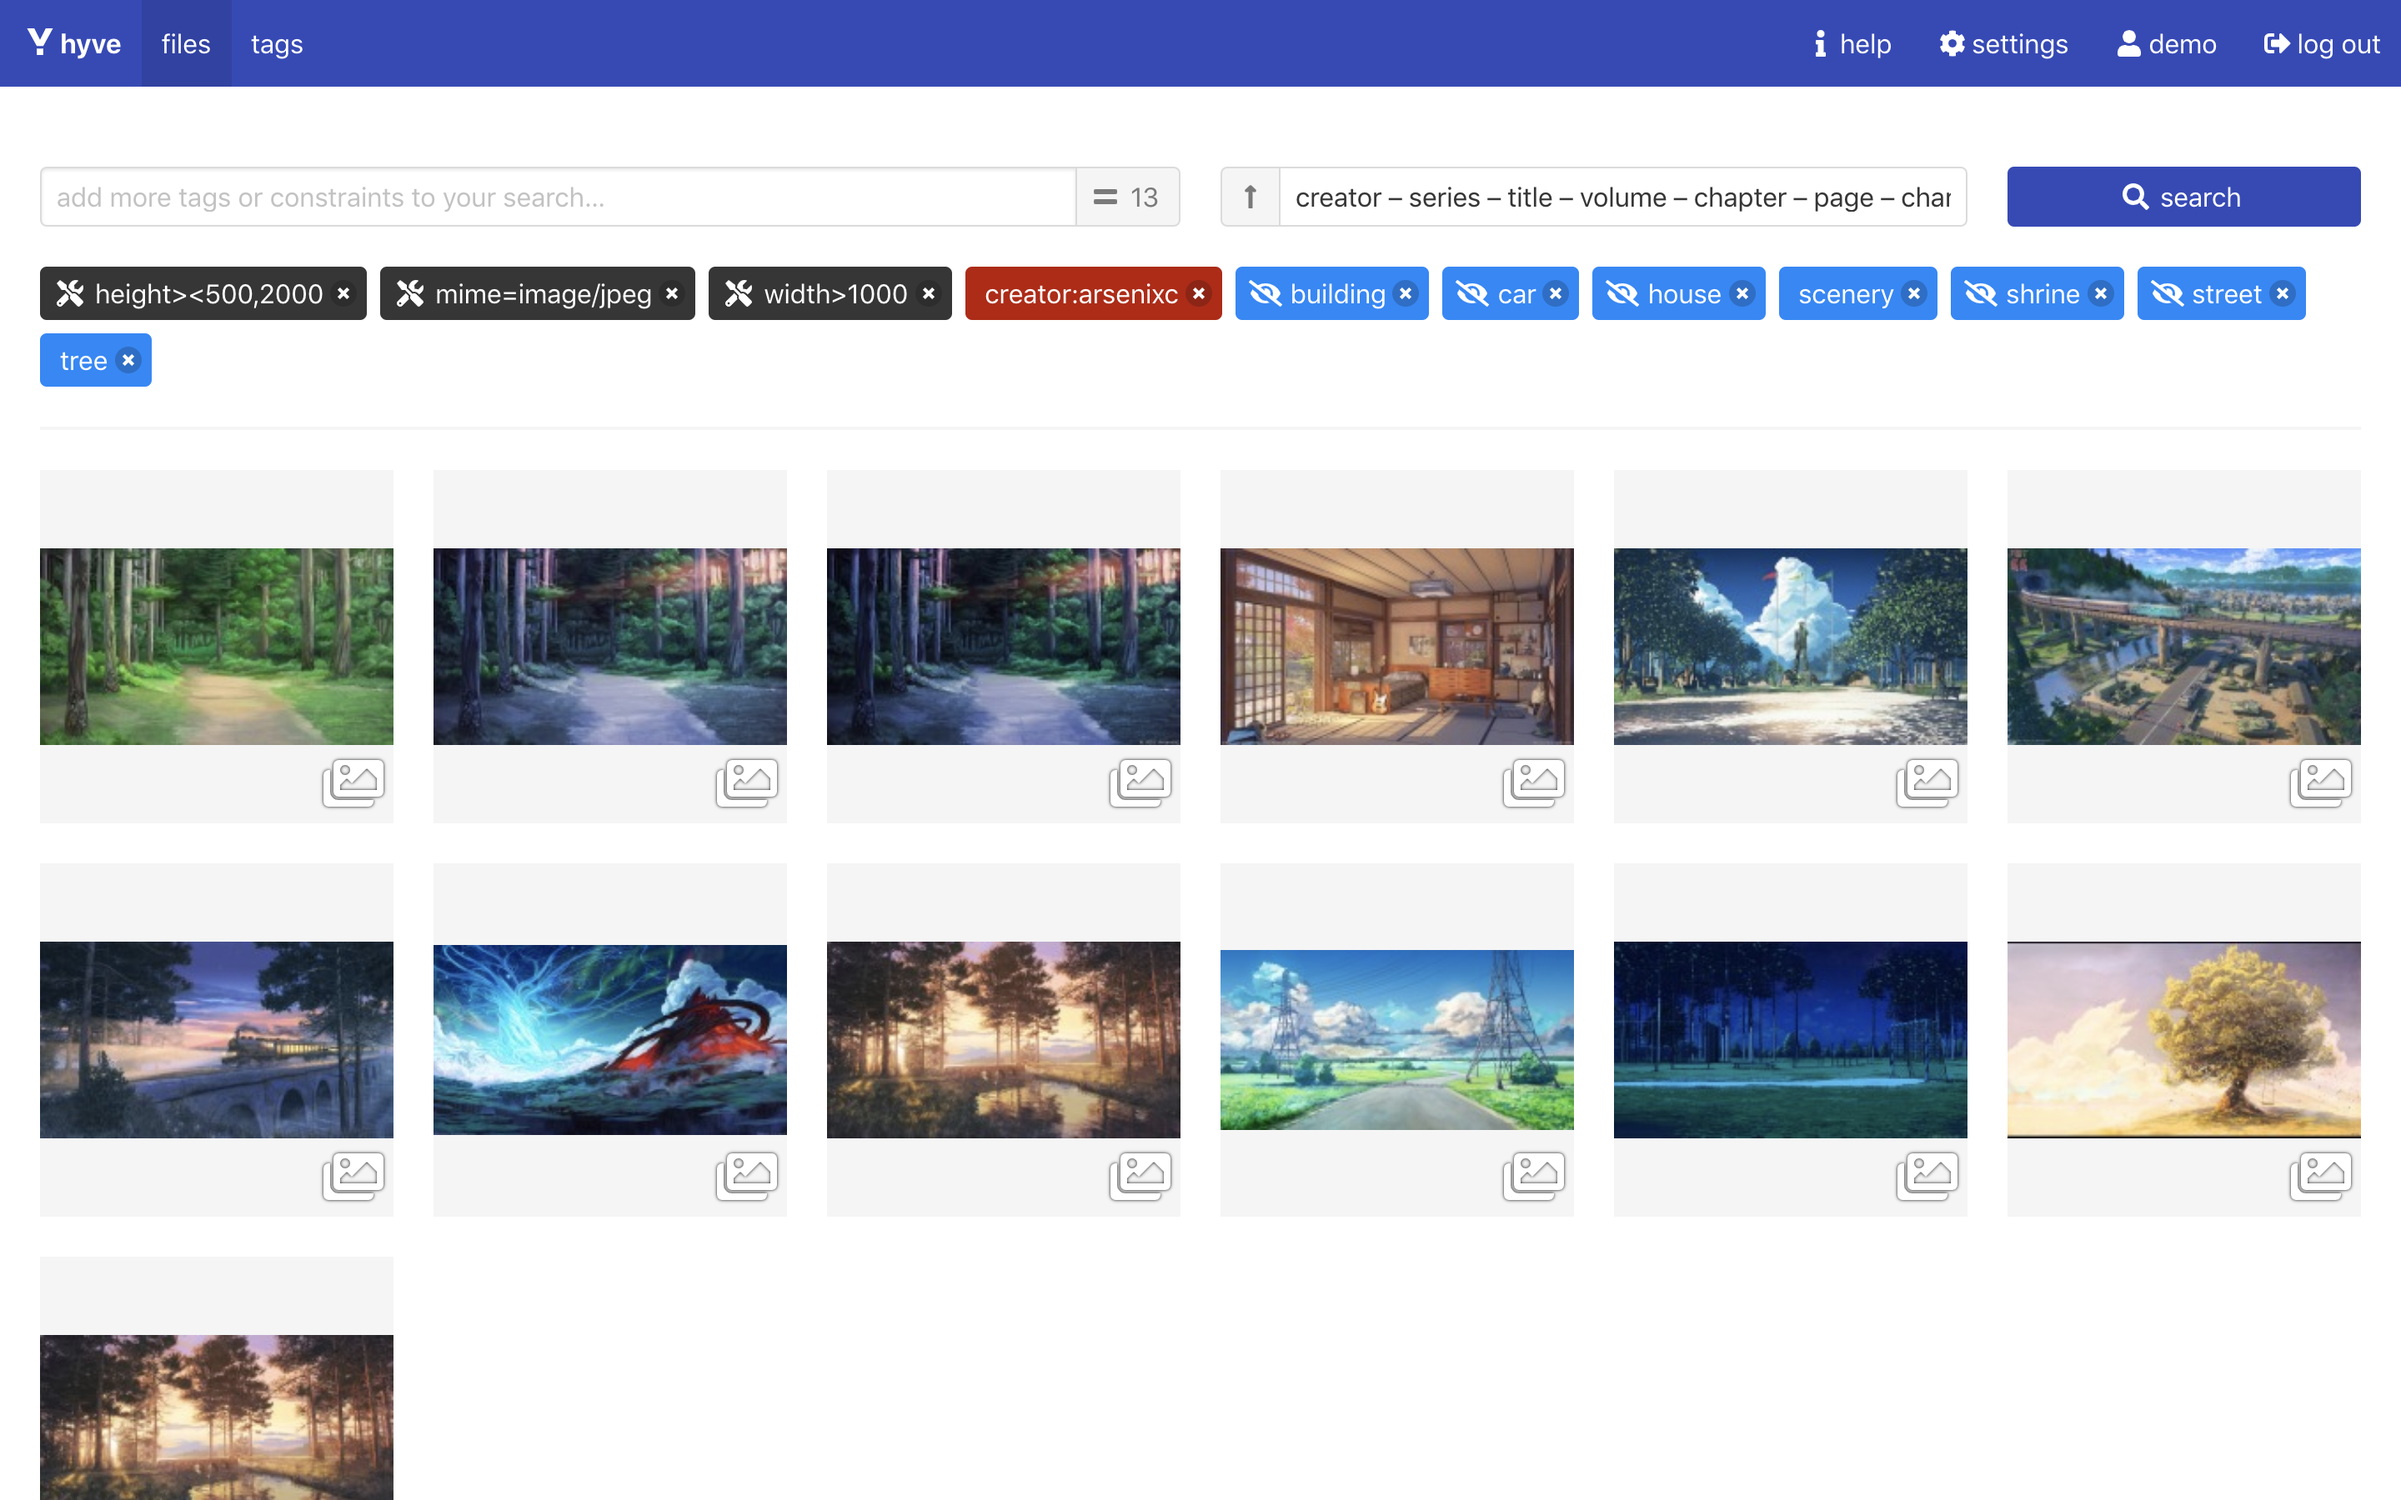
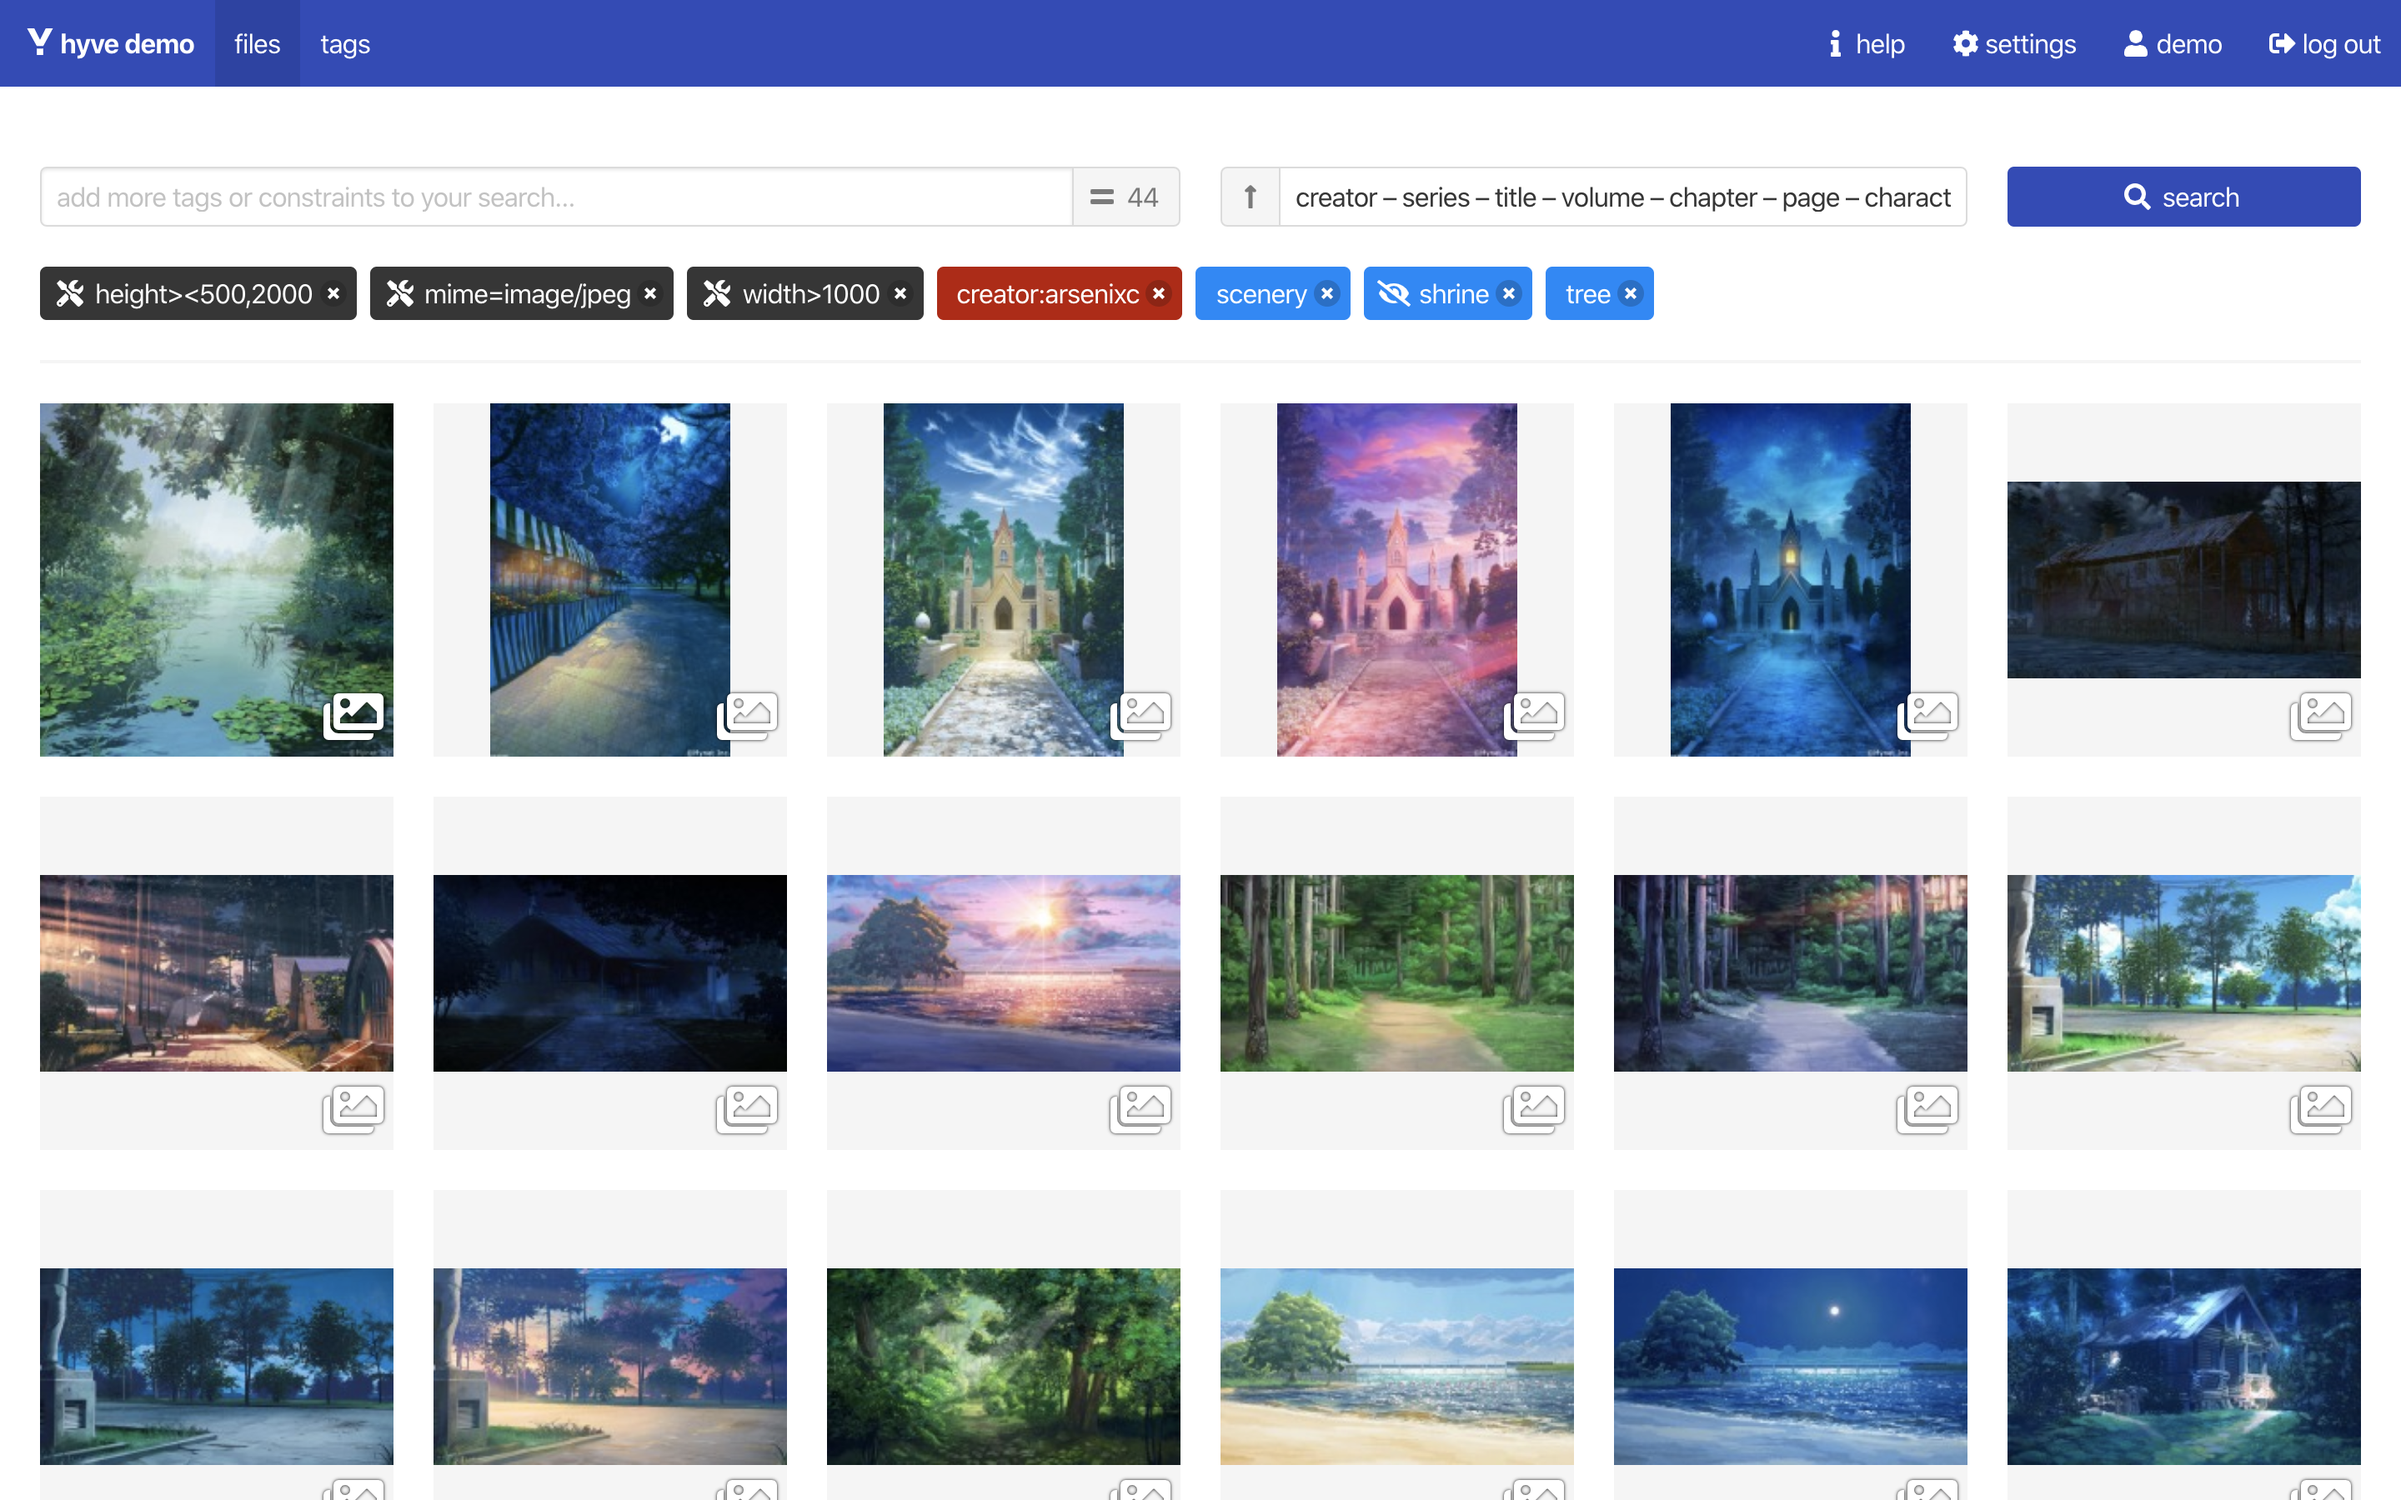
docs: Update screenshots

diff --git a/README.md b/README.md
@@ -499,6 +499,8 @@ Here are some screenshots of the web client:
 
 ![Changing user data][screenshot-user]
 
+![Using the dark theme][screenshot-dark]
+
 ## FAQ
 
 > I am encountering a _unique constraint_ error when syncing. Why does this
@@ -605,6 +607,7 @@ You are welcome to help out!
 [screenshot-tags]: https://github.com/mserajnik/hyve/raw/master/media/screenshot-tags.png
 [screenshot-settings]: https://github.com/mserajnik/hyve/raw/master/media/screenshot-settings.png
 [screenshot-user]: https://github.com/mserajnik/hyve/raw/master/media/screenshot-user.png
+[screenshot-dark]: https://github.com/mserajnik/hyve/raw/master/media/screenshot-dark.png
 
 [paypal]: https://www.paypal.me/mserajnik
 [paypal-image]: https://www.paypalobjects.com/webstatic/en_US/i/btn/png/blue-rect-paypal-26px.png

diff --git a/CHANGELOG.md b/CHANGELOG.md
@@ -12,6 +12,10 @@ and this project adheres to
 
 + Added time zone configuration to Docker Compose example setups
 
+### Changed
+
++ Updated screenshots
+
 ### Fixed
 
 + Fixed a visual checkbox bug when using the dark theme
